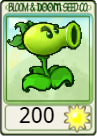
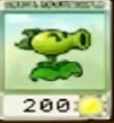
save

diff --git a/src/LevelManager.cpp b/src/LevelManager.cpp
@@ -150,6 +150,20 @@ void LevelManager::UpdateGameOverAnimation(Util::Renderer& root, float deltaTime
 }
 
 std::string LevelManager::GetRewardPlantNameForCurrentLevel() const {
+    // Hardcoded reward drops for level 5-8.
+    switch (m_CurrentLevel) {
+        case 5:
+            return "potato";
+        case 6:
+            return "snowpea";
+        case 7:
+            return "chomper";
+        case 8:
+            return "repeater";
+        default:
+            break;
+    }
+
     if (m_CurrentLevel < 1 || m_CurrentLevel > static_cast<int>(m_AllLevelConfigs.size())) {
         return "sunflower";
     }
@@ -345,11 +359,30 @@ void LevelManager::SpawnConveyorCard(Util::Renderer& root) {
     if (!m_IsConveyorMode || m_LevelPlants.empty()) {
         return;
     }
-    if (m_Cards.size() >= LevelManagerConfig::NUM_CARDS) {
-        return;
+
+    const PlantData* selectedData = nullptr;
+    if (m_CurrentLevel == 5) {
+        const PlantData* normalNut = nullptr;
+        const PlantData* redNut = nullptr;
+        for (const auto& plant : m_LevelPlants) {
+            if (plant.name == "nutWall") {
+                normalNut = &plant;
+            } else if (plant.name == "redNutWall") {
+                redNut = &plant;
+            }
+        }
+
+        // Level 5 weighted spawn: normal 70%, red 30%.
+        if (normalNut && redNut) {
+            selectedData = ((std::rand() % 100) < 30) ? redNut : normalNut;
+        }
     }
 
-    const auto& data = m_LevelPlants[std::rand() % m_LevelPlants.size()];
+    if (!selectedData) {
+        selectedData = &m_LevelPlants[std::rand() % m_LevelPlants.size()];
+    }
+
+    const auto& data = *selectedData;
     const float y = m_CardSlot ? m_CardSlot->m_Transform.translation.y : m_CardSlotTargetY;
 
     auto card = std::make_shared<PlantCard>(data, m_ConveyorRightX, y);
@@ -369,6 +402,8 @@ void LevelManager::LoadLevel(Util::Renderer& root) {
             std::make_shared<Util::Image>(RESOURCE_DIR"/Image/Background/startBackGround.png"),
             -10
         );
+        m_Background->m_Transform.scale = {1.1f, 1.1f};
+        m_Background->m_Transform.translation = {0.0f, 0.0f};
         root.AddChild(m_Background);
 
         auto startButton = std::make_shared<Button>(
@@ -401,6 +436,15 @@ void LevelManager::LoadLevel(Util::Renderer& root) {
         m_CurrentLevelConfig.level_number = m_CurrentLevel;
         m_CurrentLevelConfig.background = "phase3.png";
         m_CurrentLevelConfig.starting_energy = 50;
+    }
+
+    // Level 5 tuning: increase zombie counts.
+    if (m_CurrentLevel == 5) {
+        for (auto& wave : m_CurrentLevelConfig.waves) {
+            for (auto& spawn : wave.zombies) {
+                spawn.count = std::max(1, static_cast<int>(std::ceil(spawn.count * 1.4f)));
+            }
+        }
     }
 
     // Reset wave counters
@@ -445,12 +489,41 @@ void LevelManager::LoadLevel(Util::Renderer& root) {
         std::make_shared<Util::Image>(cardSlotPath),
         10
     );
-    m_CardSlot->m_Transform.scale = {0.25f, 0.25f};
-    m_CardSlot->m_Transform.translation = {-300.0f, m_CardSlotTargetY};
+    m_CardSlot->m_Transform.scale = m_IsConveyorMode ? glm::vec2{1.0f, 0.80f} : glm::vec2{0.25f, 0.25f};
+    m_CardSlot->m_Transform.translation = {
+        m_IsConveyorMode ? (-300.0f + 200.0f) : -300.0f,
+        m_CardSlotTargetY
+    };
     root.AddChild(m_CardSlot);
     m_CardSlotActive = true;
-    m_ConveyorLeftX = m_CardSlot->m_Transform.translation.x - 150.0f;
-    m_ConveyorRightX = m_ConveyorLeftX + 80.0f * (LevelManagerConfig::NUM_CARDS - 1);
+    m_ShovelIcon = nullptr;
+    m_FollowingShovel = nullptr;
+    m_IsDraggingShovel = false;
+    const float conveyorLevel5OffsetX = (m_CurrentLevel == 5) ? -80.0f : 0.0f;
+    m_ConveyorLeftX = m_CardSlot->m_Transform.translation.x - 260.0f + conveyorLevel5OffsetX;
+    m_ConveyorRightX = m_CardSlot->m_Transform.translation.x + 430.0f + conveyorLevel5OffsetX;
+
+    if (m_CurrentLevel >= 5 && m_CurrentLevel <= 10) {
+        m_ShovelPlot = std::make_shared<Util::GameObject>(
+            std::make_shared<Util::Image>(RESOURCE_DIR "/Image/Other/shovelplot.png"),
+            m_CardSlot->GetZIndex()
+        );
+        const glm::vec2 slotSize = m_CardSlot->GetScaledSize();
+        m_ShovelPlot->m_Transform.translation = {
+            m_CardSlot->m_Transform.translation.x + slotSize.x * 0.5f + 55.0f,
+            m_CardSlot->m_Transform.translation.y
+        };
+        m_ShovelPlot->m_Transform.scale = {0.1f, 0.1f};
+        root.AddChild(m_ShovelPlot);
+
+        m_ShovelIcon = std::make_shared<Util::GameObject>(
+            std::make_shared<Util::Image>(RESOURCE_DIR "/Image/Other/shovel.png"),
+            m_CardSlot->GetZIndex() + 1.0f
+        );
+        m_ShovelIcon->m_Transform.translation = m_ShovelPlot->m_Transform.translation;
+        m_ShovelIcon->m_Transform.scale = {1.0f, 1.0f};
+        root.AddChild(m_ShovelIcon);
+    }
 
     // ===== ?????蝵?=====
     m_CardPositions.clear();
@@ -500,10 +573,6 @@ void LevelManager::LoadLevel(Util::Renderer& root) {
             root.AddChild(cooldownDim);
 
             m_CardVisuals.push_back({energyDim, cooldownDim});
-        }
-    } else {
-        for (int i = 0; i < 3; ++i) {
-            SpawnConveyorCard(root);
         }
     }
 
@@ -581,10 +650,15 @@ void LevelManager::LoadLevel(Util::Renderer& root) {
     std::srand(static_cast<unsigned int>(std::time(nullptr)));
 
     // ===== ????＊蝷箸?摮?=====
-    m_EnergyTextPtr = std::make_shared<Util::Text>("C:/PTSD-Plants-vs-Zombies/PTSD/assets/fonts/Inter.ttf", 24, std::to_string(m_PlayerEnergy), Util::Color(0, 0, 0));
-    m_EnergyText = std::make_shared<Util::GameObject>(m_EnergyTextPtr, 30);
-    m_EnergyText->m_Transform.translation = {-540.0f, 285.0f}; // 撌虫?閫?蝵殷??ㄐ靽格xy摨扳?
-    root.AddChild(m_EnergyText);
+    if (!IsConveyorLevel()) {
+        m_EnergyTextPtr = std::make_shared<Util::Text>("C:/PTSD-Plants-vs-Zombies/PTSD/assets/fonts/Inter.ttf", 24, std::to_string(m_PlayerEnergy), Util::Color(0, 0, 0));
+        m_EnergyText = std::make_shared<Util::GameObject>(m_EnergyTextPtr, 30);
+        m_EnergyText->m_Transform.translation = {-540.0f, 285.0f}; // 撌虫?閫?蝵殷??ㄐ靽格xy摨扳?
+        root.AddChild(m_EnergyText);
+    } else {
+        m_EnergyTextPtr = nullptr;
+        m_EnergyText = nullptr;
+    }
 
     // ===== ????∠?摮? =====
     int levelGroup = (m_CurrentLevel - 1) / 10 + 1;
@@ -809,8 +883,7 @@ void LevelManager::Update(Util::Renderer& root, float deltaTime) {
                 rightmostEdge = std::max(rightmostEdge, nextX + width * 0.5f);
             }
 
-            if (m_ConveyorSpawnTimer >= m_ConveyorSpawnInterval &&
-                m_Cards.size() < LevelManagerConfig::NUM_CARDS) {
+            if (m_ConveyorSpawnTimer >= m_ConveyorSpawnInterval) {
                 const float spawnWidth = (!m_Cards.empty()) ? m_Cards.front()->GetScaledSize().x : 70.0f;
                 const float spawnLeftEdge = m_ConveyorRightX - spawnWidth * 0.5f;
                 const bool canSpawn = m_Cards.empty() || (rightmostEdge + cardGap <= spawnLeftEdge);
@@ -992,8 +1065,20 @@ void LevelManager::Update(Util::Renderer& root, float deltaTime) {
             auto& nut = m_RollingNuts[i];
             nut.object->m_Transform.translation += nut.velocity * deltaTime;
 
+            if (nut.object->m_Transform.translation.y > 430.0f) {
+                nut.object->m_Transform.translation.y = 430.0f;
+                nut.velocity.y = -std::abs(nut.velocity.y);
+            } else if (nut.object->m_Transform.translation.y < -430.0f) {
+                nut.object->m_Transform.translation.y = -430.0f;
+                nut.velocity.y = std::abs(nut.velocity.y);
+            }
+
             bool removeNut = false;
             for (auto& zombie : m_Zombies) {
+                if (nut.hitZombies.find(zombie.get()) != nut.hitZombies.end()) {
+                    continue;
+                }
+
                 float dx = zombie->m_Transform.translation.x - nut.object->m_Transform.translation.x;
                 float dy = std::abs(zombie->m_Transform.translation.y - nut.object->m_Transform.translation.y);
                 bool sameRow = zombie->GetRow() == nut.row;
@@ -1010,10 +1095,10 @@ void LevelManager::Update(Util::Renderer& root, float deltaTime) {
                     for (int frame = 1; frame <= 8; ++frame) {
                         bombPaths.push_back(RESOURCE_DIR"/Image/Other/Bomb/frame_" + std::to_string(frame) + ".png");
                     }
-                    auto bombAnim = std::make_shared<Util::Animation>(bombPaths, false, 60, false, 0);
+                    auto bombAnim = std::make_shared<Util::Animation>(bombPaths, true, 60, false, 0);
                     auto bombObj = std::make_shared<Util::GameObject>(bombAnim, 20.0f);
                     bombObj->m_Transform.translation = nut.object->m_Transform.translation;
-                    bombObj->m_Transform.scale = {2.0f, 2.0f};
+                    bombObj->m_Transform.scale = {0.8f, 0.8f};
                     root.AddChild(bombObj);
                     m_BombEffects.push_back({bombObj, bombAnim});
 
@@ -1026,8 +1111,10 @@ void LevelManager::Update(Util::Renderer& root, float deltaTime) {
                     }
 
                     removeNut = true;
-                } else if (!nut.hasBounced) {
-                    zombie->TakeDamage(150.0f);
+                } else {
+                    zombie->TakeDamage(400.0f);
+                    nut.hitZombies.insert(zombie.get());
+
                     constexpr float kFortyFiveDeg = 0.78539816339f;
                     const float speed = std::max(1.0f, std::sqrt(nut.velocity.x * nut.velocity.x + nut.velocity.y * nut.velocity.y));
                     const float direction = (std::rand() % 2 == 0) ? 1.0f : -1.0f;
@@ -1035,11 +1122,13 @@ void LevelManager::Update(Util::Renderer& root, float deltaTime) {
                     nut.hasBounced = true;
                 }
 
-                break;
+                if (nut.isRed || !removeNut) {
+                    break;
+                }
             }
 
             const auto& pos = nut.object->m_Transform.translation;
-            if (pos.x > 800.0f || pos.x < -700.0f || pos.y > 430.0f || pos.y < -430.0f) {
+            if (pos.x > 800.0f || pos.x < -700.0f) {
                 removeNut = true;
             }
 
@@ -1229,7 +1318,77 @@ void LevelManager::Update(Util::Renderer& root, float deltaTime) {
 
 
         // 瑼Ｘ?∠?暺?
-        if (Util::Input::IsKeyDown(Util::Keycode::MOUSE_LB) && !m_SelectedCard) {
+        if (m_ShovelPlot && m_ShovelIcon) {
+            m_ShovelIcon->m_Transform.translation = m_ShovelPlot->m_Transform.translation;
+            m_ShovelIcon->SetVisible(!m_IsDraggingShovel);
+        }
+
+        bool startedShovelDragThisFrame = false;
+        if (Util::Input::IsKeyDown(Util::Keycode::MOUSE_LB) && !m_SelectedCard && !m_IsDraggingShovel && m_ShovelPlot && m_ShovelIcon) {
+            const glm::vec2 iconSize = m_ShovelIcon->GetScaledSize();
+            const float iconLeft = m_ShovelIcon->m_Transform.translation.x - iconSize.x * 0.5f;
+            const float iconRight = m_ShovelIcon->m_Transform.translation.x + iconSize.x * 0.5f;
+            const float iconBottom = m_ShovelIcon->m_Transform.translation.y - iconSize.y * 0.5f;
+            const float iconTop = m_ShovelIcon->m_Transform.translation.y + iconSize.y * 0.5f;
+            if (mousePos.x >= iconLeft && mousePos.x <= iconRight && mousePos.y >= iconBottom && mousePos.y <= iconTop) {
+                m_IsDraggingShovel = true;
+                m_ShovelIcon->SetVisible(false);
+                m_FollowingShovel = std::make_shared<Util::GameObject>(
+                    std::make_shared<Util::Image>(RESOURCE_DIR "/Image/Other/shovel.png"),
+                    25.0f
+                );
+                m_FollowingShovel->m_Transform.scale = m_ShovelIcon->m_Transform.scale;
+                m_FollowingShovel->m_Transform.translation = {mousePos.x, mousePos.y};
+                root.AddChild(m_FollowingShovel);
+                startedShovelDragThisFrame = true;
+            }
+        }
+
+        if (m_IsDraggingShovel && m_FollowingShovel) {
+            m_FollowingShovel->m_Transform.translation = {mousePos.x, mousePos.y};
+            if (Util::Input::IsKeyUp(Util::Keycode::MOUSE_LB)) {
+                int shovelRow = -1;
+                int shovelCol = -1;
+                const float cellWidth = (m_GridRightX - m_GridLeftX) / (m_GridCols - 1);
+                for (int r = 0; r < 5; ++r) {
+                    if (!m_RowAllowed[r]) continue;
+                    const float rowY = m_GridTopY - (r - m_GridMinRow) * m_GridCellHeight;
+                    for (int c = 0; c < m_GridCols; ++c) {
+                        const float cellX = m_GridLeftX + c * cellWidth;
+                        const float halfSizeX = cellWidth * 0.5f;
+                        const float halfSizeY = m_GridCellHeight * 0.5f;
+                        if (mousePos.x >= cellX - halfSizeX && mousePos.x < cellX + halfSizeX &&
+                            mousePos.y <= rowY + halfSizeY && mousePos.y > rowY - halfSizeY) {
+                            shovelRow = r;
+                            shovelCol = c;
+                            break;
+                        }
+                    }
+                    if (shovelRow != -1) break;
+                }
+
+                if (shovelRow != -1 && shovelCol != -1 && m_GrassGrid[shovelRow][shovelCol]) {
+                    for (int i = static_cast<int>(m_PlacedPlants.size()) - 1; i >= 0; --i) {
+                        auto& plant = m_PlacedPlants[i];
+                        if (plant && plant->GetRow() == shovelRow && plant->GetCol() == shovelCol) {
+                            root.RemoveChild(plant);
+                            m_PlacedPlants.erase(m_PlacedPlants.begin() + i);
+                            m_GrassGrid[shovelRow][shovelCol] = false;
+                            break;
+                        }
+                    }
+                }
+
+                root.RemoveChild(m_FollowingShovel);
+                m_FollowingShovel = nullptr;
+                m_IsDraggingShovel = false;
+                if (m_ShovelIcon) {
+                    m_ShovelIcon->SetVisible(true);
+                }
+            }
+        }
+
+        if (!startedShovelDragThisFrame && !m_IsDraggingShovel && Util::Input::IsKeyDown(Util::Keycode::MOUSE_LB) && !m_SelectedCard) {
             for (auto& card : m_Cards) {
                 if ((m_IsConveyorMode || card->IsReady()) && m_PlayerEnergy >= card->GetData().cost) {
                     // 閮?撖阡?憭批?
@@ -1365,9 +1524,10 @@ void LevelManager::Update(Util::Renderer& root, float deltaTime) {
                             20.0f
                         );
                         rollingNut->m_Transform.translation = m_PreviewPlant->m_Transform.translation;
-                        rollingNut->m_Transform.scale = {data.scale, data.scale};
+                        const float nutScale = data.scale;
+                        rollingNut->m_Transform.scale = {nutScale, nutScale};
                         root.AddChild(rollingNut);
-                        m_RollingNuts.push_back({rollingNut, row, {200.0f, 0.0f}, isRed, false});
+                        m_RollingNuts.push_back({rollingNut, row, {260.0f, 0.0f}, isRed, false, {}});
                     } else {
                         if (data.name == "bean" || data.name == "peashooter") {
                             placedPlant = std::make_shared<PeashooterPlant>(data);
@@ -1470,6 +1630,9 @@ void LevelManager::UpdateWaveProgressIndicator() {
 void LevelManager::ChangeLevel(int level, Util::Renderer& root) {
     if (m_Background) { root.RemoveChild(m_Background); m_Background = nullptr; }
     if (m_CardSlot) { root.RemoveChild(m_CardSlot); m_CardSlot = nullptr; }
+    if (m_ShovelPlot) { root.RemoveChild(m_ShovelPlot); m_ShovelPlot = nullptr; }
+    if (m_ShovelIcon) { root.RemoveChild(m_ShovelIcon); m_ShovelIcon = nullptr; }
+    if (m_FollowingShovel) { root.RemoveChild(m_FollowingShovel); m_FollowingShovel = nullptr; }
     if (m_Word) { root.RemoveChild(m_Word); m_Word = nullptr; }
     for (auto& btn : m_Buttons) root.RemoveChild(btn);
     for (auto& card : m_Cards) root.RemoveChild(card);
@@ -1522,6 +1685,10 @@ void LevelManager::ChangeLevel(int level, Util::Renderer& root) {
     m_FollowingPlant = nullptr;
     m_PreviewPlant = nullptr;
     m_SelectedCard = nullptr;
+    m_ShovelPlot = nullptr;
+    m_ShovelIcon = nullptr;
+    m_FollowingShovel = nullptr;
+    m_IsDraggingShovel = false;
     m_EnergyText = nullptr;
     m_EnergyTextPtr = nullptr;
     m_LevelText = nullptr;

diff --git a/include/LevelManager.hpp b/include/LevelManager.hpp
@@ -68,6 +68,10 @@ private:
 
     // 🧩 卡片槽
     std::shared_ptr<Util::GameObject> m_CardSlot;
+    std::shared_ptr<Util::GameObject> m_ShovelPlot;
+    std::shared_ptr<Util::GameObject> m_ShovelIcon;
+    std::shared_ptr<Util::GameObject> m_FollowingShovel;
+    bool m_IsDraggingShovel = false;
     bool m_CardSlotActive = false;
     float m_CardSlotTargetY = LevelManagerConfig::CARDSLOT_TARGET_Y;
 
@@ -139,6 +143,7 @@ private:
         glm::vec2 velocity = {200.0f, 0.0f};
         bool isRed = false;
         bool hasBounced = false;
+        std::unordered_set<const Zombie*> hitZombies = {};
     };
     std::vector<RollingNut> m_RollingNuts;
 

diff --git a/src/PlantRegistry.cpp b/src/PlantRegistry.cpp
@@ -161,7 +161,7 @@ PlantRegistry::PlantRegistry() {
             "nutWall", 0, 0.0f,
             RESOURCE_DIR"/Image/Plants/nutCard.png",
             paths,
-            0.7f
+            0.5f
         };
     }
 
@@ -174,7 +174,7 @@ PlantRegistry::PlantRegistry() {
             "redNutWall", 0, 0.0f,
             RESOURCE_DIR"/Image/Plants/redNutCard.png",
             paths,
-            0.7f
+            1.0f
         };
     }
 }

diff --git a/src/App.cpp b/src/App.cpp
@@ -14,7 +14,7 @@ void App::Start() {
 }
 
 void App::Update(float deltaTime) {
-    constexpr float kGameTimeScale = 3.0f;
+    constexpr float kGameTimeScale = 1.0f;
     m_LevelManager->Update(m_Root, deltaTime * kGameTimeScale);
 
     if (Util::Input::IsKeyUp(Util::Keycode::ESCAPE) ||
